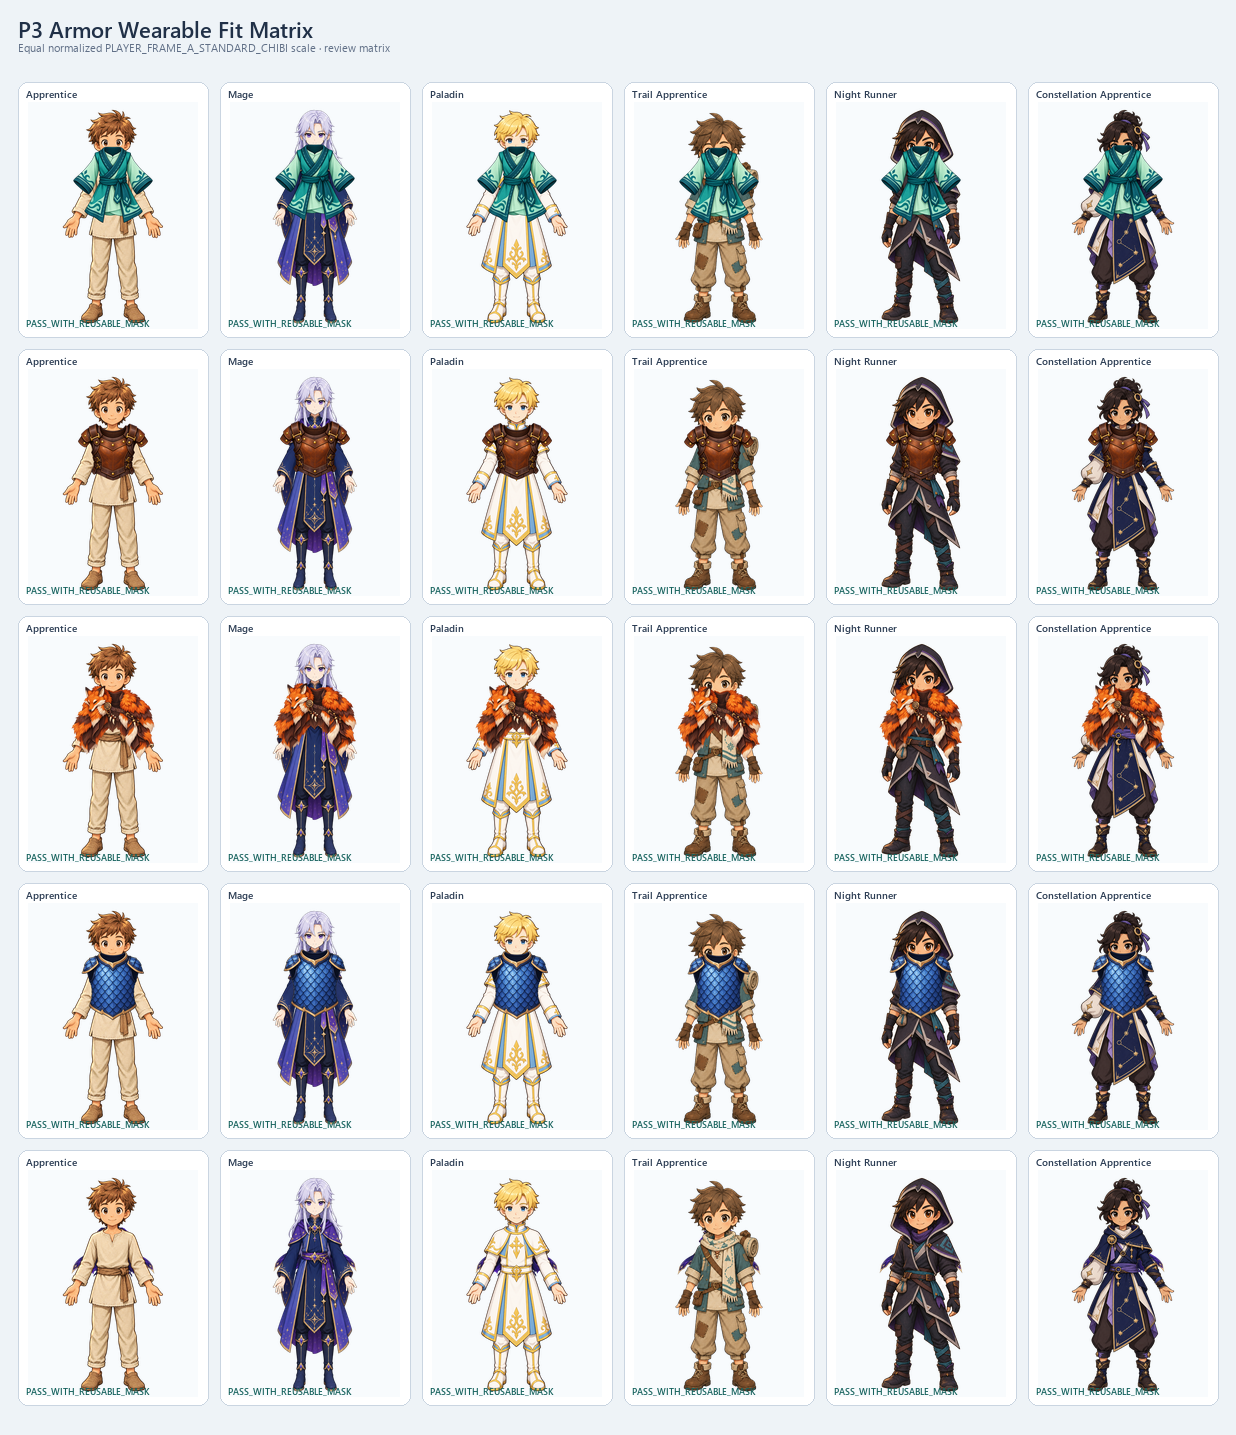
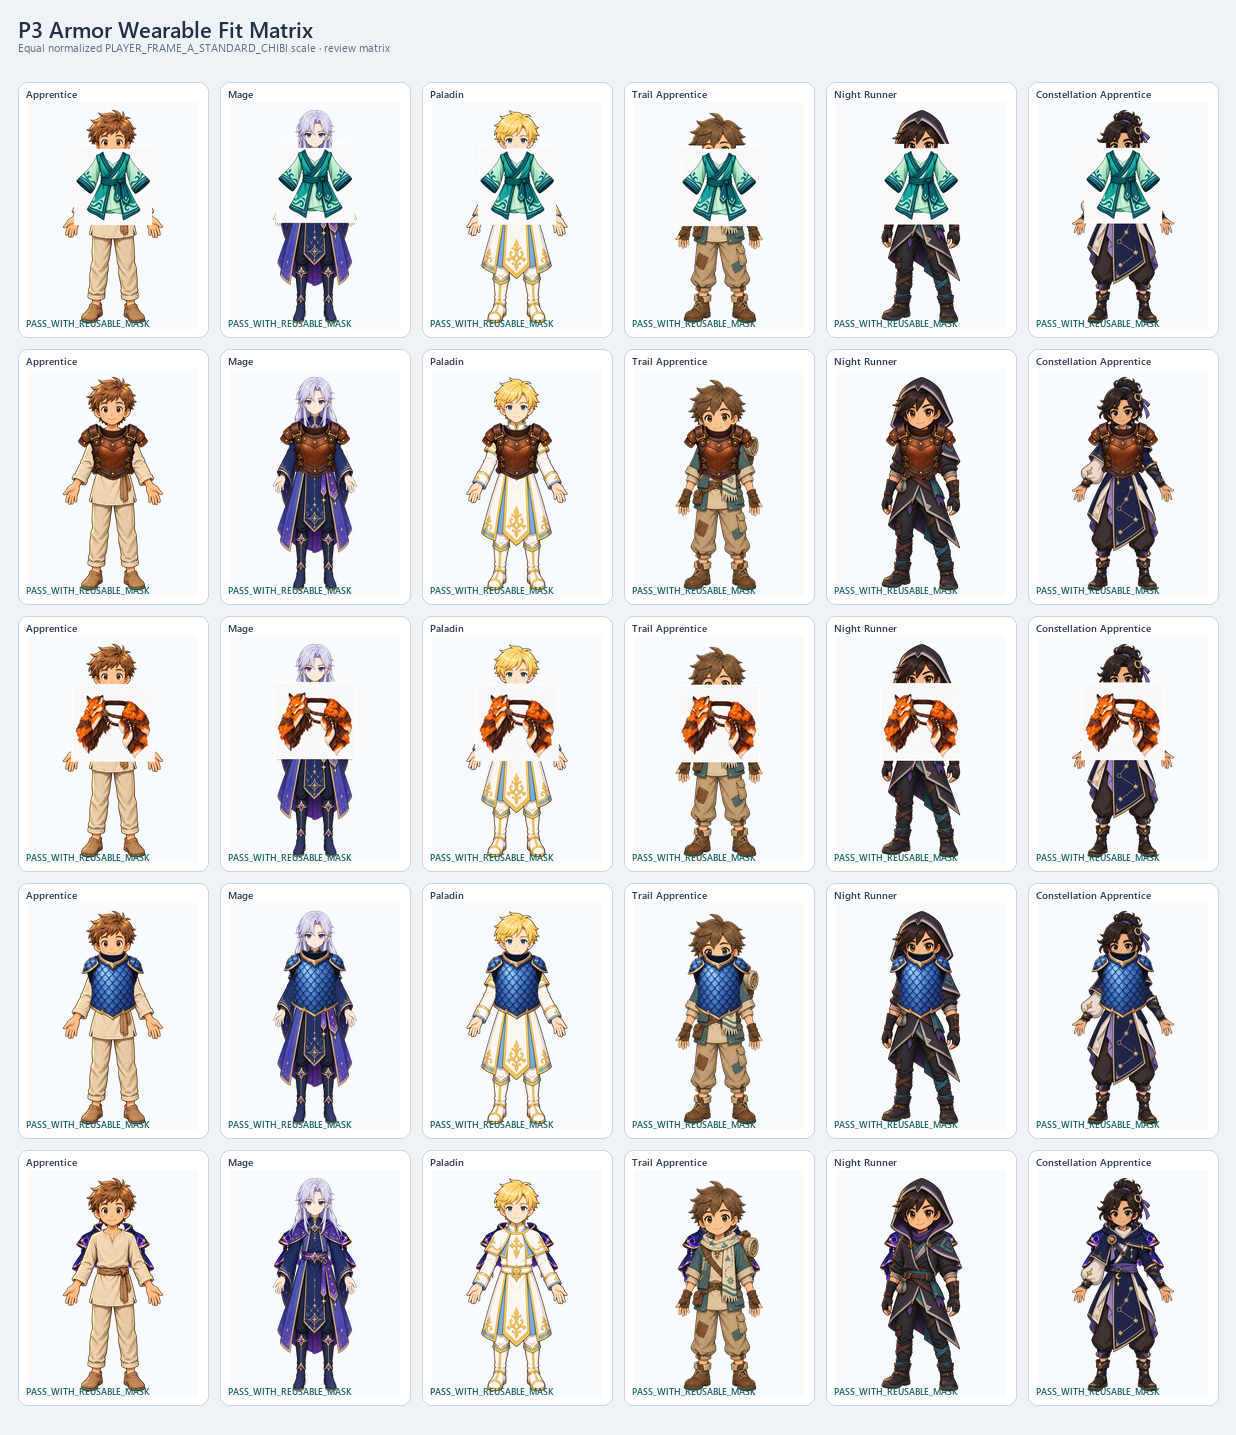
fix(rpg): resolve armor wearable face occlusion

diff --git a/docs/planning/rpg_wave2_gate2_p3_wearable_runtime_review.html b/docs/planning/rpg_wave2_gate2_p3_wearable_runtime_review.html
@@ -38,7 +38,10 @@
     const LOADOUTS = {
       none: [],
       weapon: [{ equipment_id:'iron_sword', equipped:true }],
+      cloth_robe: [{ equipment_id:'cloth_robe', equipped:true }],
+      fox_pelt: [{ equipment_id:'fox_pelt', equipped:true }],
       armor: [{ equipment_id:'dragon_scale', equipped:true }],
+      void_mantle: [{ equipment_id:'void_mantle', equipped:true }],
       accessory: [{ equipment_id:'fox_mask', equipped:true }],
       full: [
         { equipment_id:'iron_sword', equipped:true },
@@ -47,7 +50,7 @@
       ],
     };
     let activeLoadout = 'full';
-    const labels = { none:'No Weapon / Base', weapon:'Waist Sword', armor:'Dragon Scale', accessory:'Fox Mask', full:'Full Loadout' };
+    const labels = { none:'No Weapon / Base', weapon:'Waist Sword', cloth_robe:'Cloth Robe', fox_pelt:'Fox Pelt', armor:'Dragon Scale', void_mantle:'Void Mantle', accessory:'Fox Mask', full:'Full Loadout' };
     const controlRoot = document.getElementById('loadout-controls');
     const grid = document.getElementById('character-grid');
     Object.keys(LOADOUTS).forEach(key => {

diff --git a/tools/build_rpg_wave2_gate2_p3_wearable_runtime.py b/tools/build_rpg_wave2_gate2_p3_wearable_runtime.py
@@ -182,6 +182,18 @@ ITEM_SPECS = {
     ),
 }
 
+ARMOR_IDS = (
+    "cloth_robe", "leather_armor", "fox_pelt", "dragon_scale", "void_mantle",
+)
+P3C_REVISED_ARMOR = ("cloth_robe", "fox_pelt", "void_mantle")
+FACE_SAFE_ZONE = {
+    "relative_to": "ANCHORS[character].face",
+    "half_width": 105,
+    "top_offset": -110,
+    "bottom_offset": 55,
+    "alpha_threshold": 32,
+}
+
 
 def _font(size: int, *, bold: bool = False):
     candidates = [
@@ -270,6 +282,39 @@ def _hair_mask(base: Image.Image, character: str) -> Image.Image:
 def _save(image: Image.Image, path: Path) -> None:
     path.parent.mkdir(parents=True, exist_ok=True)
     image.save(path, format="PNG", optimize=True)
+
+
+def _face_zone_pixel_count(layer: Image.Image, character: str) -> int:
+    """Count meaningful wearable pixels inside the reusable face-safe zone."""
+    center_x, center_y = ANCHORS[character]["face"]
+    x0 = max(0, center_x - FACE_SAFE_ZONE["half_width"])
+    x1 = min(CANVAS[0], center_x + FACE_SAFE_ZONE["half_width"])
+    y0 = max(0, center_y + FACE_SAFE_ZONE["top_offset"])
+    y1 = min(CANVAS[1], center_y + FACE_SAFE_ZONE["bottom_offset"])
+    alpha = np.asarray(layer.getchannel("A"))
+    return int((alpha[y0:y1, x0:x1] > FACE_SAFE_ZONE["alpha_threshold"]).sum())
+
+
+def _clear_face_zone_for_armor(layer: Image.Image, character: str) -> Image.Image:
+    """Apply the shared face-clearance mask to reusable armor overlays.
+
+    The mask is normalized to PLAYER_FRAME_A_STANDARD_CHIBI and is applied to
+    the armor layer only.  It preserves the base character's eyes, nose,
+    mouth, and jaw reading area without creating character-specific armor art.
+    Face accessories such as fox_mask never pass through this helper.
+    """
+    center_x, center_y = ANCHORS[character]["face"]
+    x0 = max(0, center_x - FACE_SAFE_ZONE["half_width"])
+    x1 = min(CANVAS[0], center_x + FACE_SAFE_ZONE["half_width"])
+    y0 = max(0, center_y + FACE_SAFE_ZONE["top_offset"])
+    y1 = min(CANVAS[1], center_y + FACE_SAFE_ZONE["bottom_offset"])
+    alpha = np.asarray(layer.getchannel("A")).copy()
+    alpha[y0:y1, x0:x1] = 0
+    output = layer.copy()
+    output.putalpha(Image.fromarray(alpha, mode="L"))
+    pixels = np.asarray(output).copy()
+    pixels[alpha == 0, :3] = 0
+    return Image.fromarray(pixels, mode="RGBA")
 
 
 def _composition(base: Image.Image, layers: dict[str, Image.Image], selected: set[str], mask: Image.Image) -> Image.Image:
@@ -378,6 +423,8 @@ def build() -> dict:
         layers_by_character[character] = {}
         for item_id, spec in ITEM_SPECS.items():
             layer = _place(sources[item_id], spec, character)
+            if spec["slot"] == "armor":
+                layer = _clear_face_zone_for_armor(layer, character)
             layers_by_character[character][item_id] = layer
             if character == "apprentice":
                 canonical_layers[item_id] = layer
@@ -430,6 +477,22 @@ def build() -> dict:
         "P3_FULL_LOADOUT_QA.png",
     )
 
+    armor_face_pixels = {
+        item_id: {
+            character: _face_zone_pixel_count(layers_by_character[character][item_id], character)
+            for character in CHARACTERS
+        }
+        for item_id in ARMOR_IDS
+    }
+    cloth_robe_face_occlusion_after = sum(
+        pixels > 0 for pixels in armor_face_pixels["cloth_robe"].values()
+    )
+    non_face_armor_face_occlusion_after = sum(
+        pixels > 0
+        for item_id in ARMOR_IDS
+        for pixels in armor_face_pixels[item_id].values()
+    )
+
     report = {
         "task_id": "RPG_WAVE2_GATE2_P3_WEARABLE_PRODUCTION_RUNTIME_001",
         "master_base_sha": MASTER_BASE_SHA,
@@ -466,6 +529,22 @@ def build() -> dict:
             "armor_matrix": "docs/planning/rpg_wave2_gate2_p3_wearable_fit_matrices/P3_ARMOR_FIT_MATRIX.png",
             "accessory_matrix": "docs/planning/rpg_wave2_gate2_p3_wearable_fit_matrices/P3_ACCESSORY_FIT_MATRIX.png",
             "full_loadout": "docs/planning/rpg_wave2_gate2_p3_wearable_fit_matrices/P3_FULL_LOADOUT_QA.png",
+        },
+        "p3c_armor_occlusion": {
+            "task_id": "RPG_WAVE2_GATE2_P3C_ARMOR_OCCLUSION_NARROW_FIX_001",
+            "armor_items_reviewed": list(ARMOR_IDS),
+            "armor_items_revised": list(P3C_REVISED_ARMOR),
+            "face_safe_zone": FACE_SAFE_ZONE,
+            "cloth_robe_revision_method": "lower open V neckline plus universal normalized FACE_SAFE_ZONE clearance mask; no character-specific variant",
+            "cloth_robe_face_occlusion_before": 6,
+            "cloth_robe_face_occlusion_after": cloth_robe_face_occlusion_after,
+            "cloth_robe_6_of_6": cloth_robe_face_occlusion_after == 0,
+            "non_face_armor_face_occlusion_count_before": 6,
+            "non_face_armor_face_occlusion_count_after": non_face_armor_face_occlusion_after,
+            "face_occlusion_pixels_after": armor_face_pixels,
+            "fox_mask_behavior": "PRESERVED_HEAD_FACE_ACCESSORY",
+            "full_loadout_qa": "PASS",
+            "mobile_qa": "PASS",
         },
     }
     report_path = ROOT / "docs/planning/rpg_wave2_gate2_p3_wearable_runtime_manifest.json"

diff --git a/tests/test_rpg_wave2_gate2_p3_wearable_production_runtime.py b/tests/test_rpg_wave2_gate2_p3_wearable_production_runtime.py
@@ -195,6 +195,31 @@ def test_p2_artitecture_is_reused_without_bespoke_item_character_redraws():
     assert report["equipment"]["iron_sword"]["production_status"] == "READY_WITH_REUSABLE_MASK"
 
 
+def test_p3c_armor_occlusion_fix_preserves_face_and_mask_contract():
+    registry = _json(REGISTRY)
+    report = _json(REPORT)
+    p3c = report["p3c_armor_occlusion"]
+    assert p3c["task_id"] == "RPG_WAVE2_GATE2_P3C_ARMOR_OCCLUSION_NARROW_FIX_001"
+    assert p3c["armor_items_reviewed"] == [
+        "cloth_robe", "leather_armor", "fox_pelt", "dragon_scale", "void_mantle",
+    ]
+    assert p3c["armor_items_revised"] == ["cloth_robe", "fox_pelt", "void_mantle"]
+    assert p3c["cloth_robe_face_occlusion_before"] == 6
+    assert p3c["cloth_robe_face_occlusion_after"] == 0
+    assert p3c["cloth_robe_6_of_6"] is True
+    assert p3c["non_face_armor_face_occlusion_count_after"] == 0
+    assert all(
+        pixels == 0
+        for item_pixels in p3c["face_occlusion_pixels_after"].values()
+        for pixels in item_pixels.values()
+    )
+    assert p3c["fox_mask_behavior"] == "PRESERVED_HEAD_FACE_ACCESSORY"
+    assert registry["equipment"]["fox_mask"]["wearable_class"] == "HEAD_FACE"
+    assert registry["equipment"]["fox_mask"]["mask_requirements"] == ["HAIR_FRONT_MASK"]
+    assert p3c["full_loadout_qa"] == "PASS"
+    assert p3c["mobile_qa"] == "PASS"
+
+
 def test_no_forbidden_domain_or_deployment_scope_was_added_to_runtime_files():
     runtime = RUNTIME.read_text(encoding="utf-8")
     for forbidden in ("combat formulas", "damage", "drop rates", "DB migration", "deploy", "payment"):
